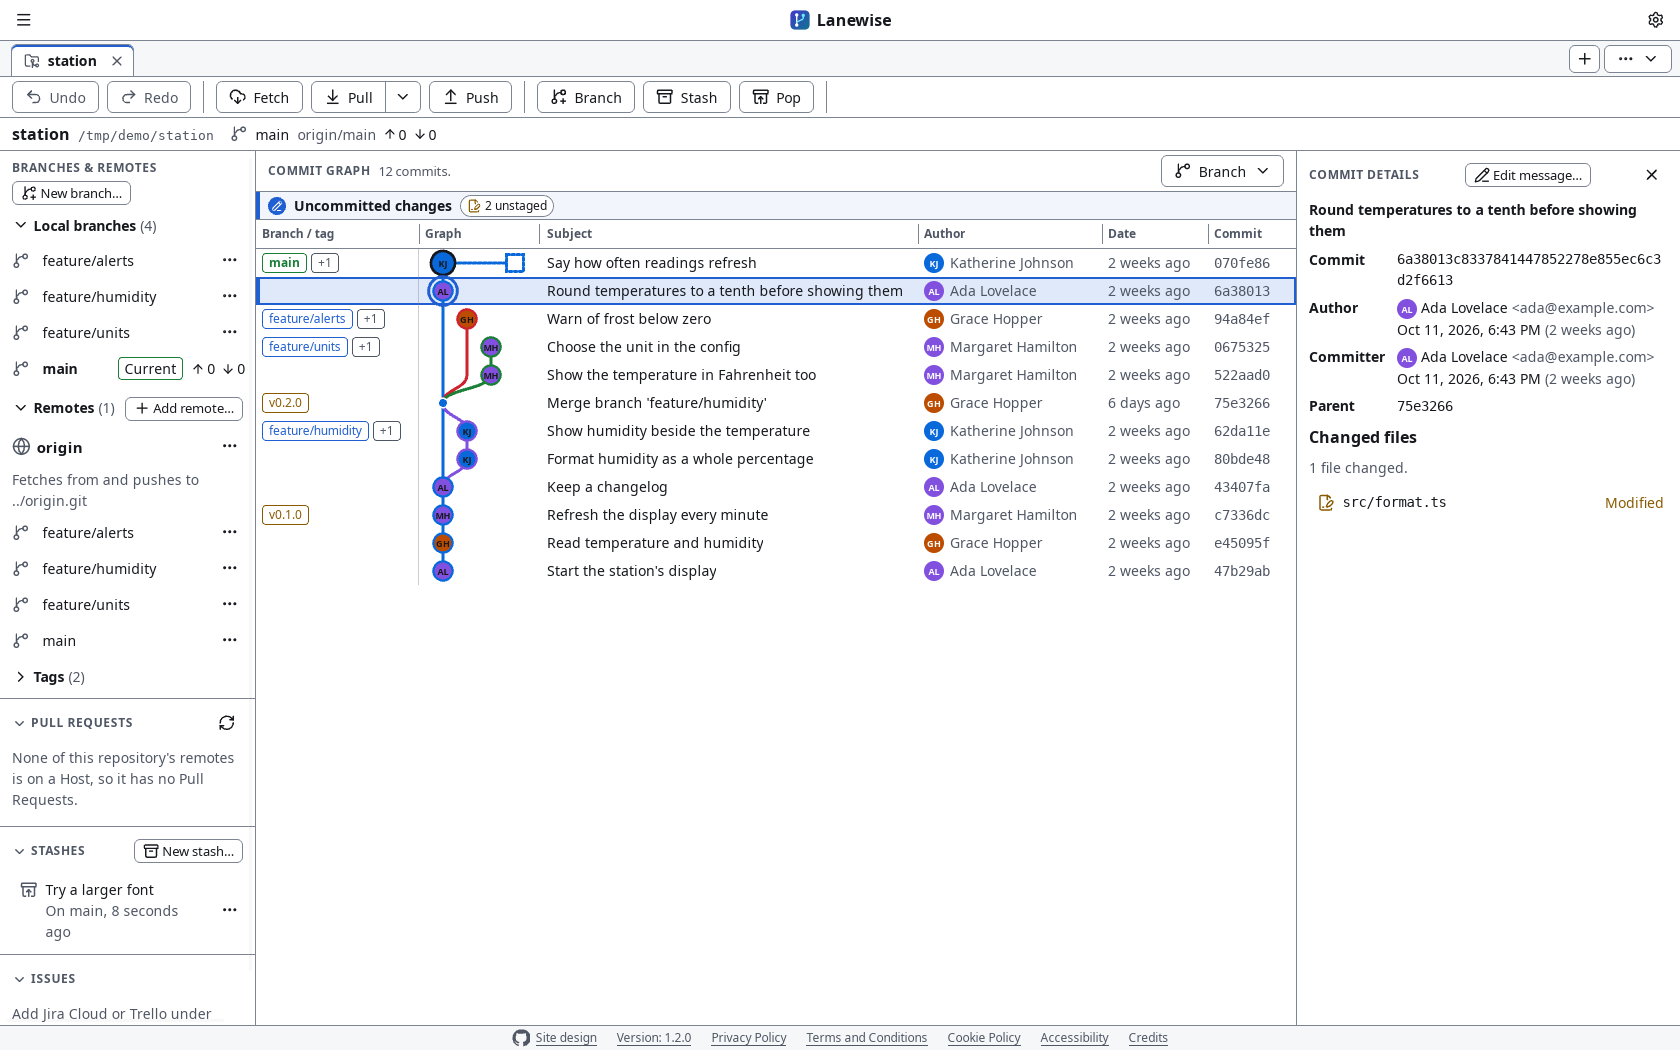
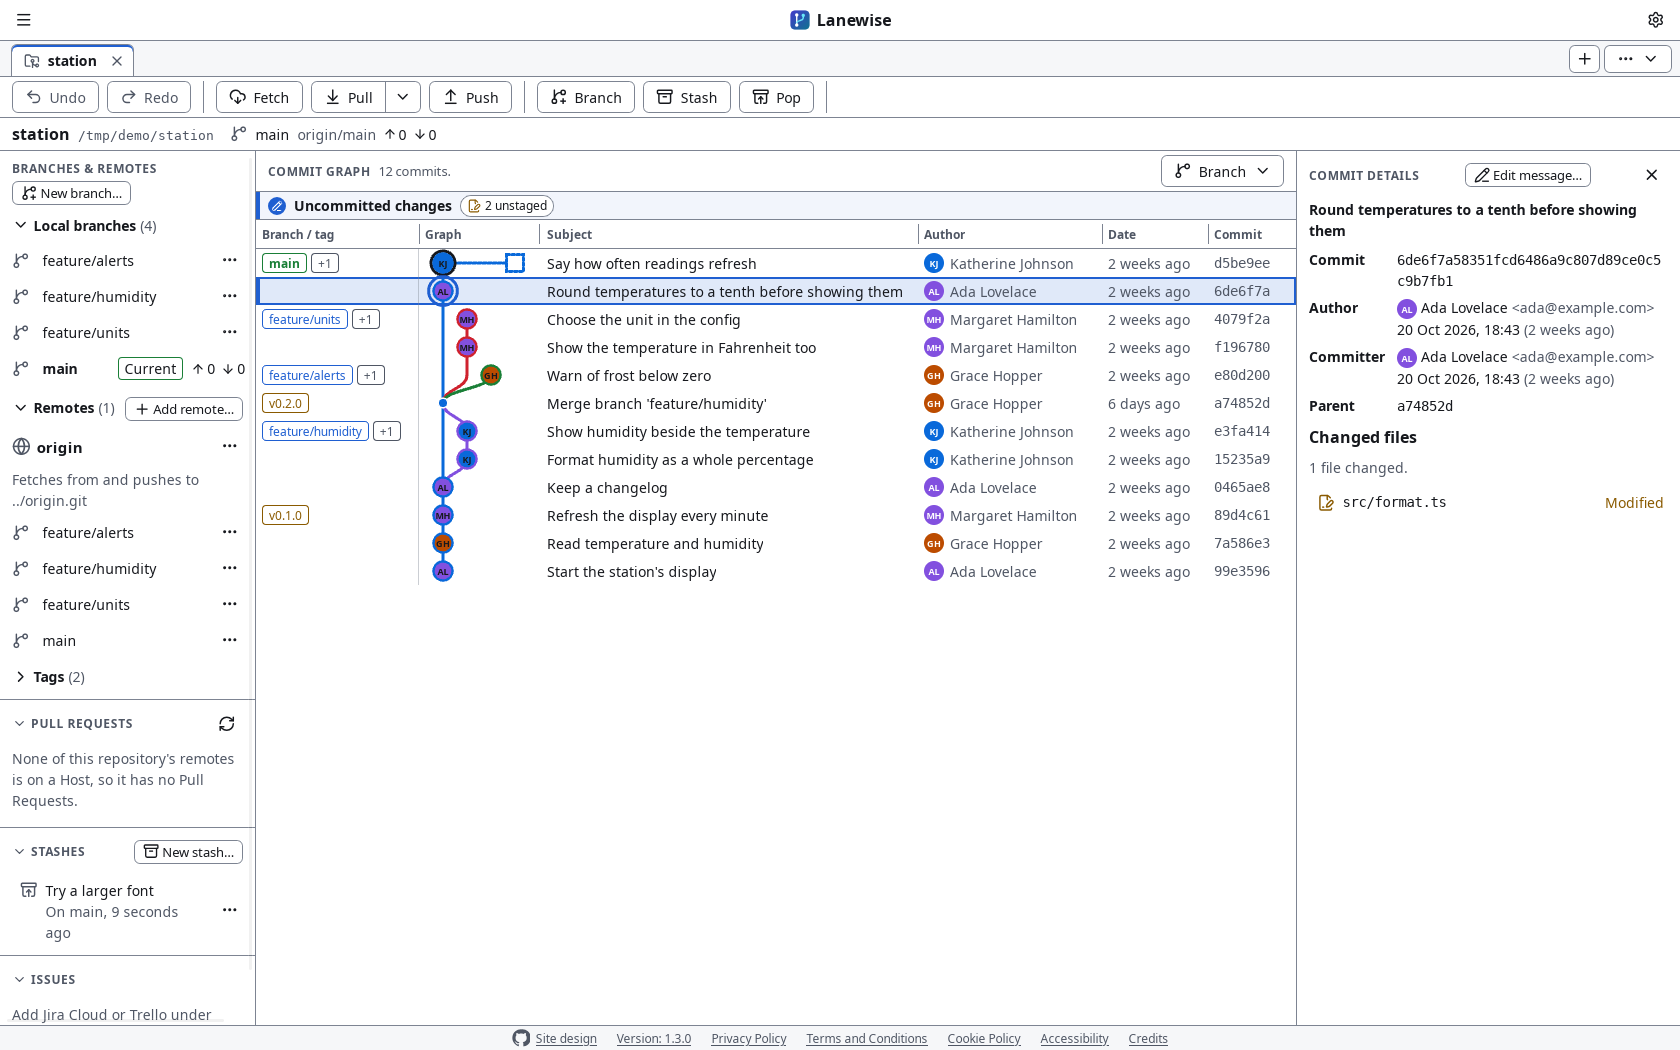
docs: take the README's and the website's screenshots again
Taken of the release build in Docker, as website/README.md says. The
Conflicts page's alt text names its Accept both buttons as they are.

diff --git a/website/src/screenshots.ts b/website/src/screenshots.ts
@@ -32,7 +32,7 @@ export const SCREENSHOTS: readonly Screenshot[] = [
     src: "screenshots/conflicts.webp",
     width: 1680,
     height: 1050,
-    alt: "Lanewise's Conflicts page in the dark Theme, during a merge of origin/feature/units into main. A bar along the top says the merge is in progress with one file still conflicted, with Continue and Abort merge. On the left, Conflicted files lists src/format.ts, conflicted, with Mark resolved. In the middle, the Three-way view shows that file's Base, Ours and Theirs side by side, coloured as a diff is: the Base's line they changed in red, marked with a minus, and the lines Ours and Theirs changed in green, each marked with a plus, and under it the Resolution, at its one Conflict Hunk, with Accept Ours, Accept Theirs and Accept both. On the right, the AI Suggestion Widget says AI is off until it is turned on in Settings.'",
+    alt: "Lanewise's Conflicts page in the dark Theme, during a merge of origin/feature/units into main. A bar along the top says the merge is in progress with one file still conflicted, with Continue and Abort merge. On the left, Conflicted files lists src/format.ts, conflicted, with Mark resolved. In the middle, the Three-way view shows that file's Base, Ours and Theirs side by side, coloured as a diff is: the Base's line they changed in red, marked with a minus, and the lines Ours and Theirs changed in green, each marked with a plus, and under it the Resolution, at its one Conflict Hunk, with Accept Ours, Accept Theirs, and Accept both, Ours first or Theirs first. On the right, the AI Suggestion Widget says AI is off until it is turned on in Settings.",
     caption: "The Conflicts page: a merge's Base, Ours and Theirs side by side, and the Resolution.",
   },
 ];

diff --git a/README.md b/README.md
@@ -13,7 +13,7 @@ A free, open-source desktop Git client for Windows and macOS, with a visual comm
 
 ![Lanewise's Repository page in the light Theme with a file's diff in the Commit graph's place, under the Toolbar's row of buttons: src/format.ts as the commit Show the temperature in Fahrenheit too changed it, split side by side, the file as it was on the left, with its removed line in red and marked with a minus, and as it is on the right, with its four added lines in green and marked with a plus, each numbered as it is in its own file. On the right, Commit details shows the commit, by Margaret Hamilton, and the file.](website/public/screenshots/diff.webp)
 
-![Lanewise's Conflicts page in the dark Theme, during a merge of origin/feature/units into main. A bar along the top says the merge is in progress with one file still conflicted, with Continue and Abort merge. On the left, Conflicted files lists src/format.ts, conflicted, with Mark resolved. In the middle, the Three-way view shows that file's Base, Ours and Theirs side by side, coloured as a diff is: the Base's line they changed in red, marked with a minus, and the lines Ours and Theirs changed in green, each marked with a plus, and under it the Resolution, at its one Conflict Hunk, with Accept Ours, Accept Theirs and Accept both. On the right, the AI Suggestion Widget says AI is off until it is turned on in Settings.](website/public/screenshots/conflicts.webp)
+![Lanewise's Conflicts page in the dark Theme, during a merge of origin/feature/units into main. A bar along the top says the merge is in progress with one file still conflicted, with Continue and Abort merge. On the left, Conflicted files lists src/format.ts, conflicted, with Mark resolved. In the middle, the Three-way view shows that file's Base, Ours and Theirs side by side, coloured as a diff is: the Base's line they changed in red, marked with a minus, and the lines Ours and Theirs changed in green, each marked with a plus, and under it the Resolution, at its one Conflict Hunk, with Accept Ours, Accept Theirs, and Accept both, Ours first or Theirs first. On the right, the AI Suggestion Widget says AI is off until it is turned on in Settings.](website/public/screenshots/conflicts.webp)
 
 ## What Lanewise does
 
